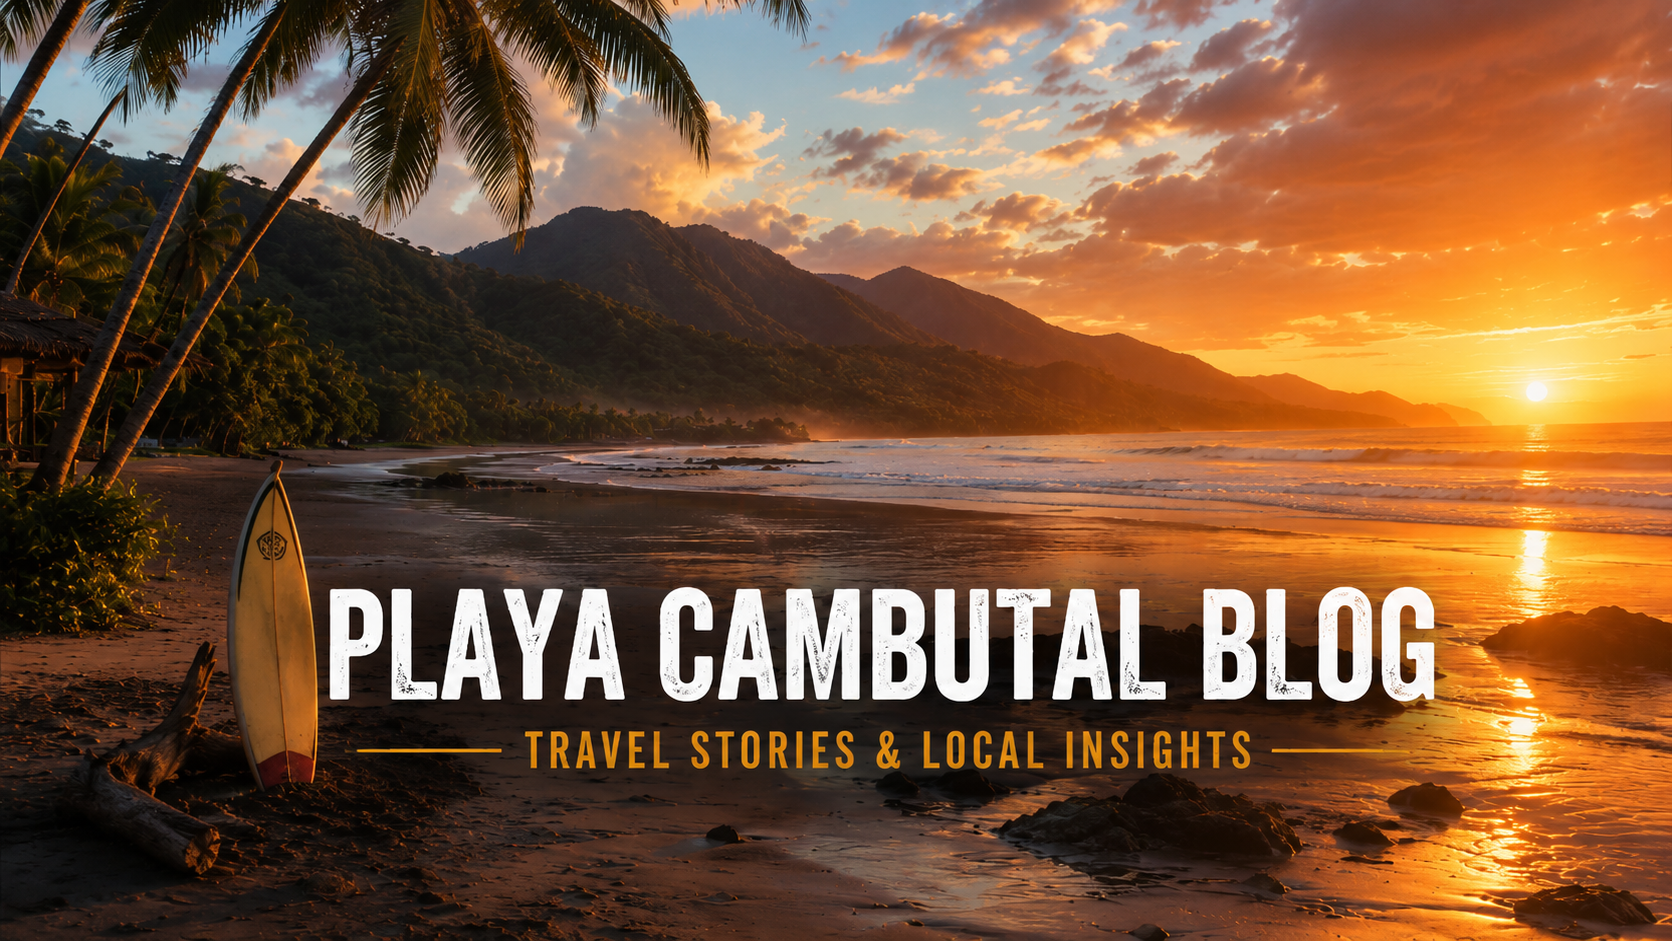
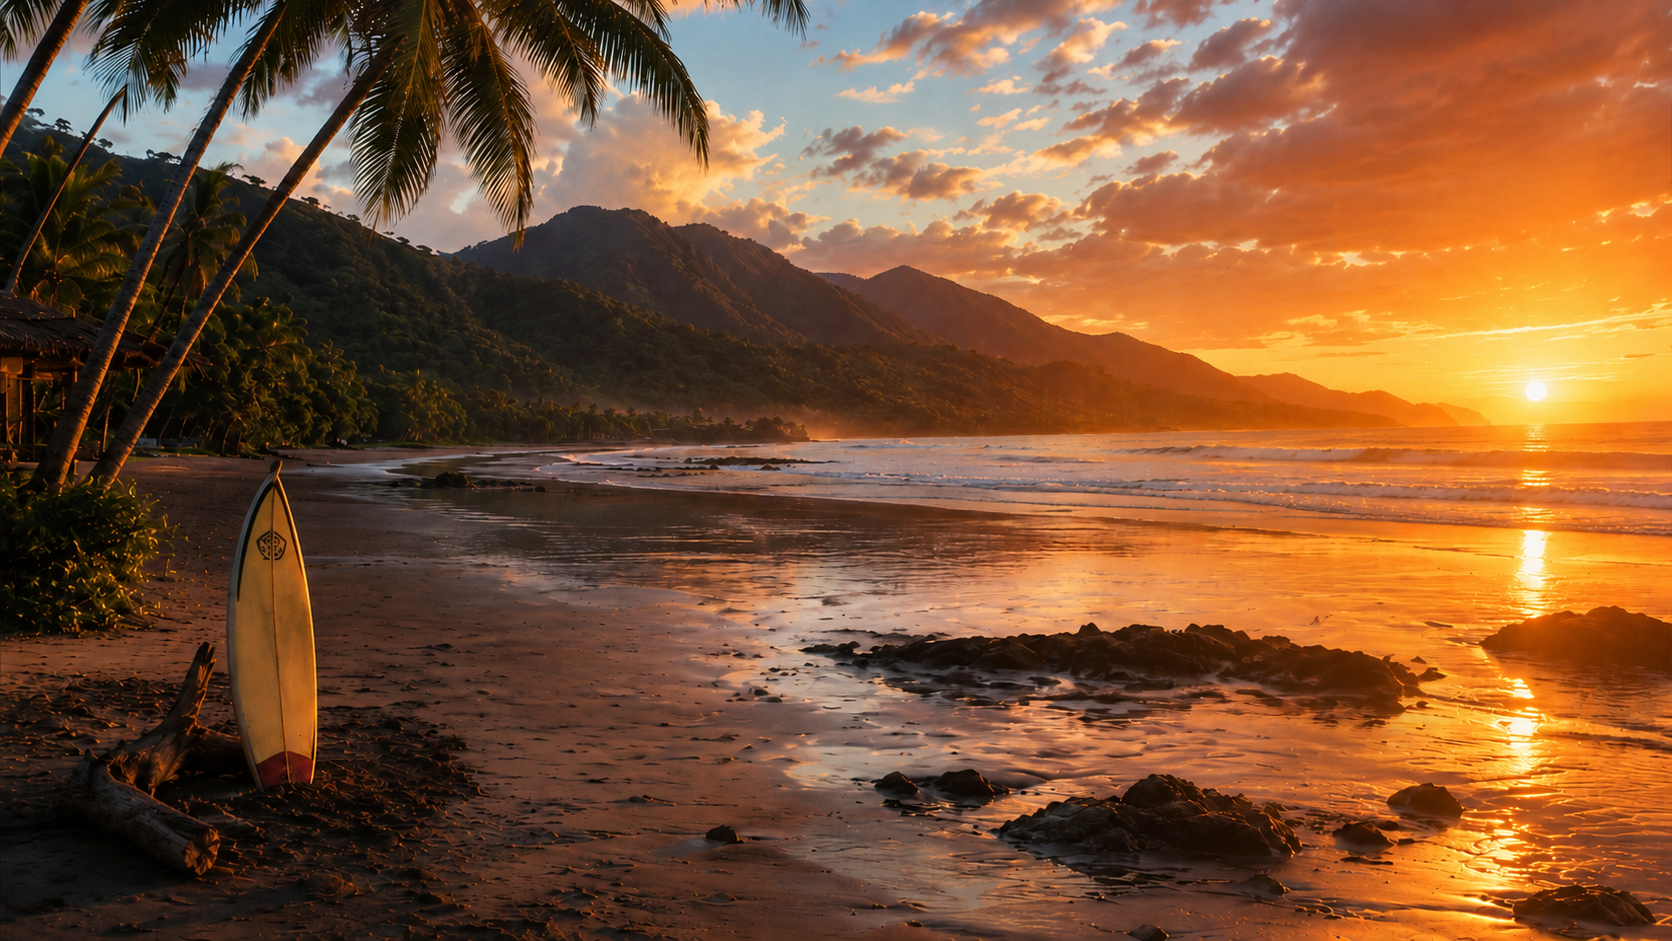
Replace blog hero with clean image and restore Hero text overlay

diff --git a/src/pages/Blog.tsx b/src/pages/Blog.tsx
@@ -3,6 +3,7 @@ import { useEffect } from 'react';
 import { Link } from 'react-router-dom';
 import Navbar from '../components/Navbar';
 import Footer from '../components/Footer';
+import Hero from '../components/Hero';
 import BlogSEO from '../components/blog/BlogSEO';
 import { useBlogPosts } from '../hooks/useBlogPosts';
 import { useLanguage } from '@/contexts/LanguageContext';
@@ -35,13 +36,11 @@ const Blog = () => {
       <BlogSEO />
       <Navbar />
       
-      <div className="w-full h-[60vh] overflow-hidden">
-        <img
-          src="/blog-hero.png"
-          alt="Playa Cambutal Blog"
-          className="w-full h-full object-cover object-center"
-        />
-      </div>
+      <Hero
+        title="Playa Cambutal Blog"
+        subtitle="Travel stories, local insights, and guides for international visitors to Panama's hidden paradise."
+        imageSrc="/blog-hero.png"
+      />
       
       <section className="bg-white py-16">
         <div className="container mx-auto px-4">